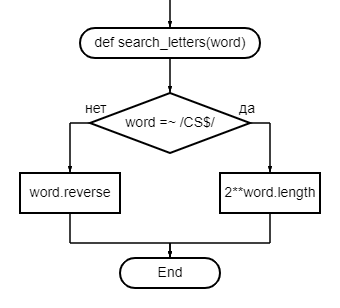
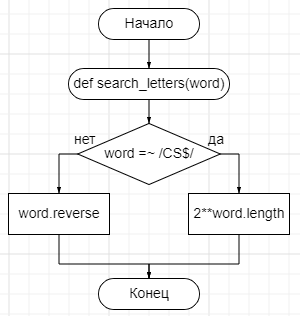
refinement of flowchart in lab3. Finalizing file.rb in lab4 and adding tests to it

diff --git a/lab4/working with a file/file.rb b/lab4/working with a file/file.rb
@@ -1,18 +1,18 @@
-# Выводит все строки, номер строки и имя файла
+require 'tempfile'
+FILE = 'file.txt'.freeze
+
+# Выводит все строки
 def index
-  ARGF.each do |line|
-    puts ARGF.filename if ARGF.file.lineno == 1
-    puts "#{ARGF.file.lineno}: #{line}"
-  end
+  File.foreach(FILE) { |line| puts line }
 end
 
 # Находит конкретную строку в файле и выводит ее
+# Отсчёт строк начинается с 0
 def find(id)
-  ARGF.each do |line|
-    puts ARGF.filename if ARGF.file.lineno == 1
-    if ARGF.file.lineno == id
-      puts "#{ARGF.file.lineno}: #{line}"
-      ARGF.skip # break
+  File.foreach(FILE).with_index do |line, index|
+    if index == id
+      puts line
+      break
     end
   end
 end
@@ -20,40 +20,56 @@ end
 # Находит все строки, где есть указанный паттерн
 def where(pattern)
   lowercase_pattern = pattern.downcase
-  ARGF.each do |line|
-    puts ARGF.filename if ARGF.file.lineno == 1
-    puts "#{ARGF.file.lineno}: #{line}" if line.downcase.include?(lowercase_pattern)
+  File.foreach(FILE) do |line|
+    puts line if line.downcase.include?(lowercase_pattern)
   end
 end
 
 # Обновляет конкретную строку файла
+# Отсчёт строк начинается с 0
 def update(id, text)
-  file = ARGF.to_io
-  require 'securerandom'
-  random_string = SecureRandom.alphanumeric(3)
-  temporary_file = File.new("#{random_string}.txt", 'w+')
+  tempfile = Tempfile.new('tempfile')
 
-  file.each do |line|
-    line = text if ARGF.file.lineno == id
-    temporary_file.puts(line)
+  File.open(tempfile, 'w') do |file|
+    File.foreach(FILE).with_index do |line, index|
+      line = text if id == index
+      file.puts(line)
+    end
   end
 
-  temporary_file.each do |line|
-    File.open(file, 'w').puts(line)
+  File.open(FILE, 'w') do |file|
+    File.open(tempfile).each do |line|
+      file.puts(line)
+    end
   end
 
-  temporary_file.close
-  File.delete(temporary_file)
-  p file.closed?
+  tempfile.unlink
 end
-
 
 # Удаляет строку
+# Отсчёт строк начинается с 0
 def delete(id)
+  tempfile = Tempfile.new('tempfile')
 
+  File.open(tempfile, 'w') do |file|
+    File.open(FILE).each_with_index do |line, index|
+      next if id == index
+
+      file.puts(line)
+    end
+  end
+
+  File.open(FILE, 'w') do |file|
+    File.open(tempfile).each do |line|
+      file.puts(line)
+    end
+  end
+
+  tempfile.unlink
 end
 
-
-update(2, '123')
-
-
+# index
+# find(1)
+# where('анна')
+# update(1, 'text')
+# delete(1)

diff --git a/lab4/working with a file/test/file_spec.rb b/lab4/working with a file/test/file_spec.rb
@@ -1,0 +1,28 @@
+require 'rspec'
+require_relative '../file'
+
+describe 'file' do
+  before { File.write(FILE, "Белова Мия\nГолубева Анна\nАртамонов Никита\nАлексеева Эмилия\n") }
+
+  it '#index' do
+    expect { index }.to output("Белова Мия\nГолубева Анна\nАртамонов Никита\nАлексеева Эмилия\n").to_stdout
+  end
+
+  it '#find' do
+    expect { find(1) }.to output("Голубева Анна\n").to_stdout
+  end
+
+  it '#where' do
+    expect { where('анна') }.to output("Голубева Анна\n").to_stdout
+  end
+
+  it '#update' do
+    update(1, 'text')
+    expect { index }.to output("Белова Мия\ntext\nАртамонов Никита\nАлексеева Эмилия\n").to_stdout
+  end
+
+  it '#delete' do
+    delete(1)
+    expect { index }.to output("Белова Мия\nАртамонов Никита\nАлексеева Эмилия\n").to_stdout
+  end
+end
